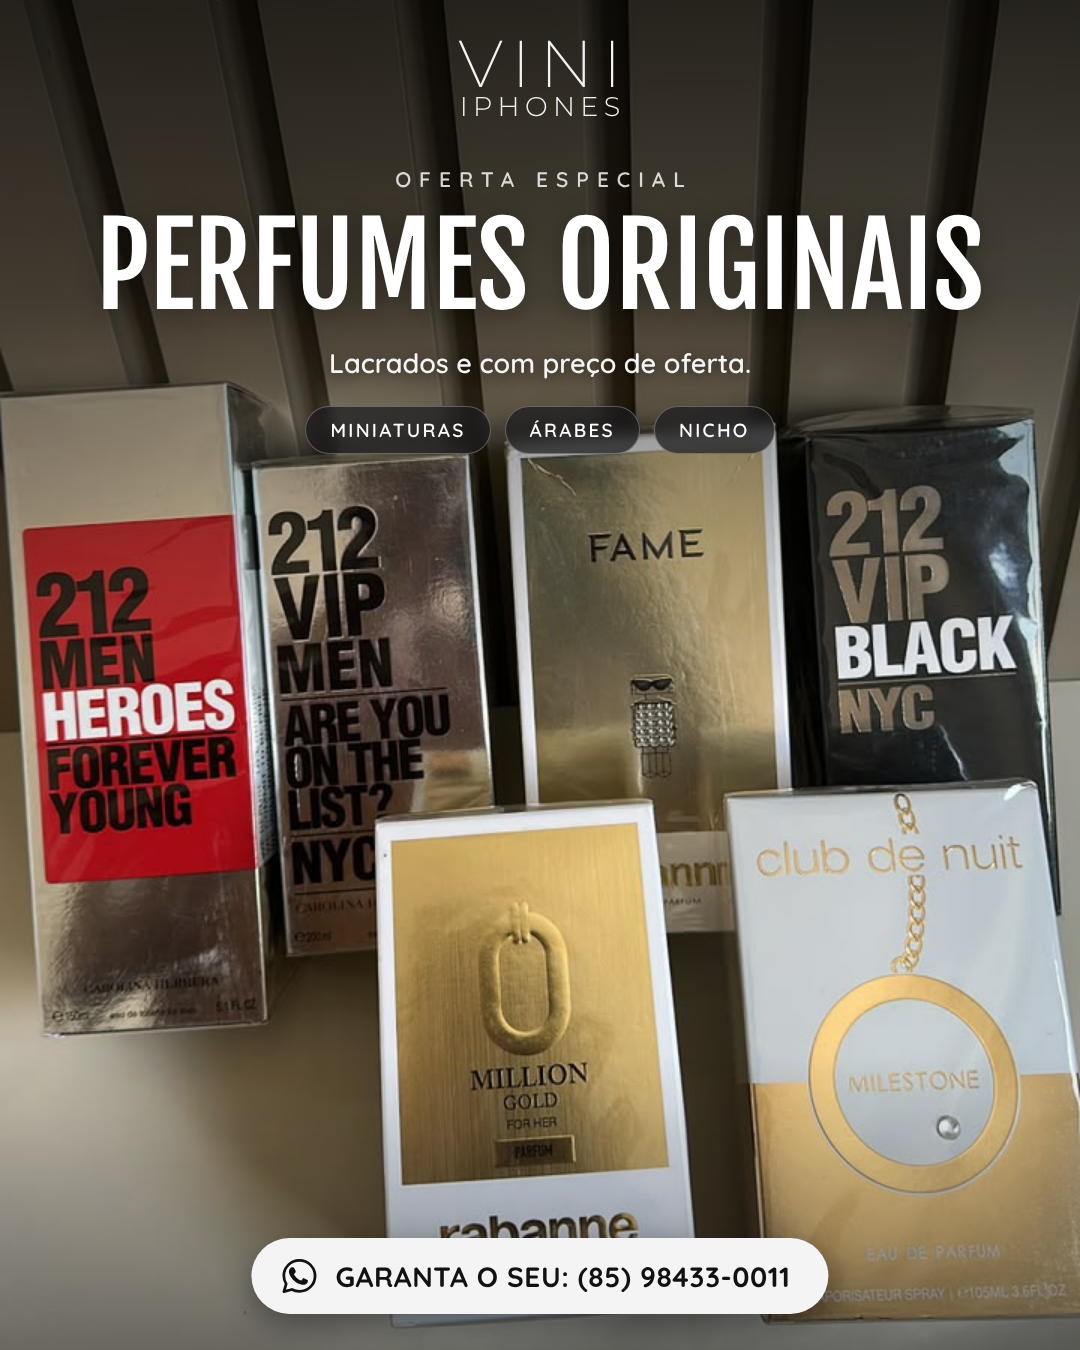
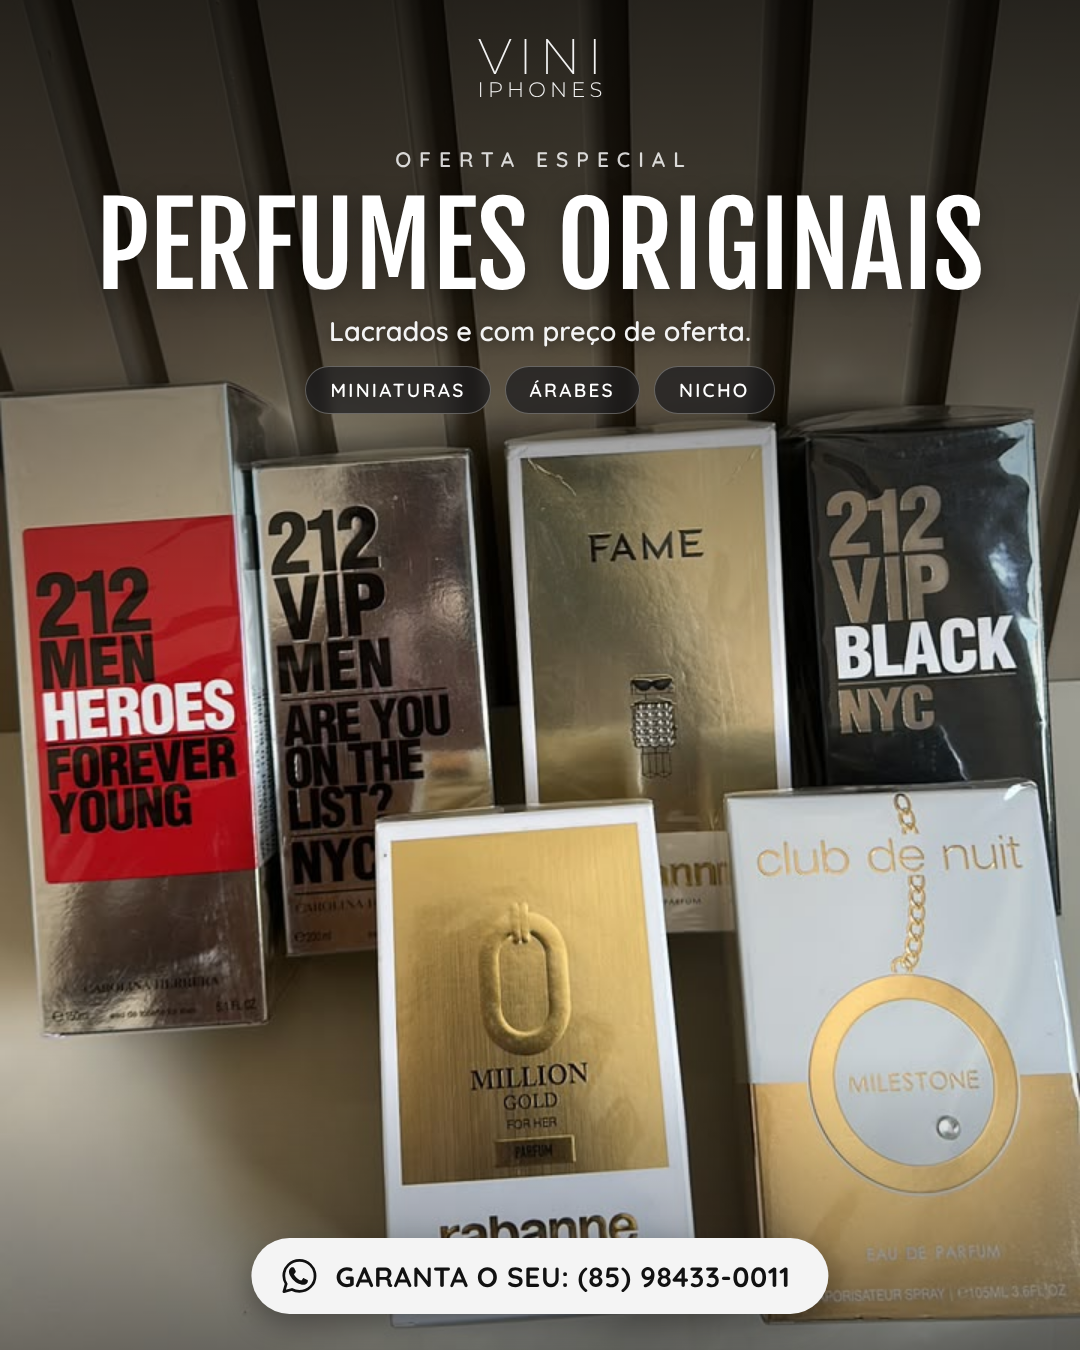
Padrão oficial para todos os posts de produto
Feed: logo menor, frase e selos colados ao título. Stories: logo mais alto,
frase e selos maiores. Acessórios, linha Apple e Garmin passam ao padrão oficial.

Claude-Session: https://claude.ai/code/session_01PhDRCUWGXWPHs6d3AsBF7P

Changed region(s): [[0.0917, 0.0311, 0.9167, 0.3422]]

diff --git a/marketing/posts/template.html b/marketing/posts/template.html
@@ -35,8 +35,8 @@
 
   .topo { position: absolute; top: 34px; left: 0; right: 0; text-align: center; }
   .logo { font-family: "Montserrat", sans-serif; font-weight: 200; line-height: .9; color: #f2f2f2; }
-  .logo .l1 { font-size: 66px; letter-spacing: .14em; padding-left: .14em; }
-  .logo .l2 { font-size: 27px; letter-spacing: .2em; padding-left: .2em; font-weight: 300; margin-top: 2px; }
+  .logo .l1 { font-size: 50px; letter-spacing: .14em; padding-left: .14em; }
+  .logo .l2 { font-size: 21px; letter-spacing: .2em; padding-left: .2em; font-weight: 300; margin-top: 2px; }
 
   .kicker { margin-top: 46px; font-size: 21px; font-weight: 600; letter-spacing: .38em; padding-left: .38em; color: var(--texto-suave); }
   .titulo { margin-top: 18px; font-family: "Fjalla One", sans-serif; font-weight: 400; line-height: 1.02; letter-spacing: .01em; text-transform: uppercase; }
@@ -51,9 +51,9 @@
     justify-content: center; white-space: nowrap; }
   .titulo.linha .t2 { margin-left: .25em; }
   .titulo.linha .t2 { background: none; color: #fff; filter: none; text-shadow: 0 4px 24px rgba(0,0,0,.35); }
-  .sub { margin-top: 22px; font-size: 27px; font-weight: 600; color: #f4f4f4; text-shadow: 0 2px 12px rgba(0,0,0,.5); }
+  .sub { margin-top: 10px; font-size: 27px; font-weight: 600; color: #f4f4f4; text-shadow: 0 2px 12px rgba(0,0,0,.5); }
 
-  .pills { margin-top: 26px; display: flex; justify-content: center; gap: 14px; flex-wrap: wrap; padding: 0 60px; }
+  .pills { margin-top: 18px; display: flex; justify-content: center; gap: 14px; flex-wrap: wrap; padding: 0 60px; }
   .pill { background: var(--pill-bg); border: 1.5px solid var(--pill-borda); border-radius: 999px;
     padding: 11px 24px; font-size: 19px; font-weight: 600; letter-spacing: .12em; text-transform: uppercase;
     backdrop-filter: blur(6px); }
@@ -64,7 +64,13 @@
     font-size: 28px; font-weight: 700; letter-spacing: .02em; box-shadow: 0 10px 30px rgba(0,0,0,.35); }
   /* Stories 1080x1920: texto e botão fora das áreas cobertas pela interface do Instagram */
   .story { --h: 1920px; }
-  .story .topo { top: 230px; }
+  .story .topo { top: 160px; }
+  .story .logo .l1 { font-size: 66px; }
+  .story .logo .l2 { font-size: 27px; }
+  .story .kicker { margin-top: 110px; font-size: 24px; }
+  .story .sub { font-size: 34px; margin-top: 14px; }
+  .story .pills { margin-top: 24px; gap: 16px; }
+  .story .pill { font-size: 23px; padding: 13px 28px; }
   .story .cta { bottom: 250px; }
   .story .sombra { background:
       linear-gradient(180deg, rgba(0,0,0,.8) 0%, rgba(0,0,0,.6) 28%, rgba(0,0,0,.2) 42%, rgba(0,0,0,0) 52%),

diff --git a/CLAUDE.md b/CLAUDE.md
@@ -15,19 +15,22 @@ Logo oficial e arte de parcelamento aprovada: `marketing/posts/referencia-parcel
 
 ## Padrão de post do Instagram (feed 1080x1350)
 
-Referência aprovada: `marketing/posts/referencia-perfumes.png`. Todo post novo segue esta estrutura,
-de cima para baixo, centralizada sobre a foto real do produto:
+PADRÃO OFICIAL para TODO post com imagem de produto (feed e stories). Estrutura, de cima para
+baixo, centralizada sobre a foto real do produto:
 
-1. Logo "VINI / IPHONES" em fonte fina (Montserrat 200/300), letras espaçadas.
+1. Logo "VINI / IPHONES" em fonte fina (Montserrat 200/300), letras espaçadas — pequeno no feed
+   (50/21px); nos stories maior (66/27px) e mais no alto (160px).
 2. Chamada pequena espaçada: `OFERTA ESPECIAL` (ou outra curta, sempre em caixa alta).
 3. Título em UMA linha, sem quebra, TODO EM BRANCO, Fjalla One (equivalente da fonte Squeeze do Instagram), caixa alta: modelo +
    capacidade ao lado (ex.: IPHONE 17 256GB, IPAD 11 128GB & 256GB). Chamada e frase coladas ao título.
-4. Subtítulo curto em uma linha (ex.: "Lacrado e com 1 ano de garantia Apple.").
+4. Subtítulo curto em uma linha (ex.: "Lacrado e com 1 ano de garantia Apple."), colado ao título.
+   Nos stories a frase e os selos são maiores (34px / 23px).
 5. Até 3 selos em pílulas escuras translúcidas com borda clara (ex.: LACRADO, GARANTIA APPLE, BRINDES).
 6. Rodapé: pílula branca com ícone do WhatsApp e `GARANTA O SEU: (85) 98433-0011`.
 
 Foto: sempre foto real dos produtos, ocupando a arte inteira, escurecida no topo para leitura.
-Posts aprovados (não mexer sem pedido): iPhone 17, iPad 11, MacBook Neo e Perfumes Originais. Produto visível
+Posts aprovados (não mexer sem pedido): iPhone 17, iPad 11, MacBook Neo, Perfumes Originais,
+Acessórios Originais Apple, Toda Linha Apple e Garmin Lacrados. Produto visível
 abaixo dos selos. Tom: premium, limpo, sem excesso de elementos, sem emojis na arte.
 
 ## Como gerar posts
@@ -42,21 +45,14 @@ node render.js <id>       # gera só um
 node render.js --story    # versões stories 1080x1920 (enquadramento no bloco "story" de cada post)
 ```
 
-Stories: mesmo layout do feed, com texto começando abaixo de 230px e o botão do WhatsApp
-250px acima da base, para não ficarem sob a interface do Instagram.
+Stories: mesmo layout do feed, logo a partir de 160px, chamada/título logo abaixo e o botão do
+WhatsApp 250px acima da base, para não ficarem sob a interface do Instagram.
 
 Fotos de fornecedor/print: recorte antes (tire barra do celular, logos e preços de outras lojas,
 textos sobrepostos) e salve em fotos/. Legendas e copy de anúncio ficam em `legendas.md`.
 
-Layout "v2" (`"estilo": "v2"`), alternativo (usado em acessórios, linha Apple e Garmin). O padrão
-principal é o descrito acima (iPhone 17, iPad 11, MacBook Neo, perfumes):
-- fundo preto; sombreamento sutil (degradê preto leve e curto em cima e embaixo, nunca pesado);
-- logo no topo com boa distância da copy; título + frase em cima, sobre o preto;
-- produto numa faixa centralizada na largura toda (`"centralizar": true`), ocupando exatamente o
-  espaço entre a frase e a base; `"posicao"` ajusta o ponto focal (ex.: "center 30%") e
-  `"esfumado"` (px) a suavidade das bordas de cima/baixo da faixa;
-- base: lista de modelos (`"lista"`) + selos, logo acima do botão do WhatsApp;
-- stories: texto começa em 170px e é maior.
+Layout "v2" (`"estilo": "v2"`, faixa de produto em fundo preto) existe no modelo, mas NÃO é mais
+usado: todos os posts de produto seguem o padrão oficial acima.
 Foto torta (ex.: caixas fotografadas na diagonal): endireite girando antes e recorte só a área
 sem cantos vazios.
 
